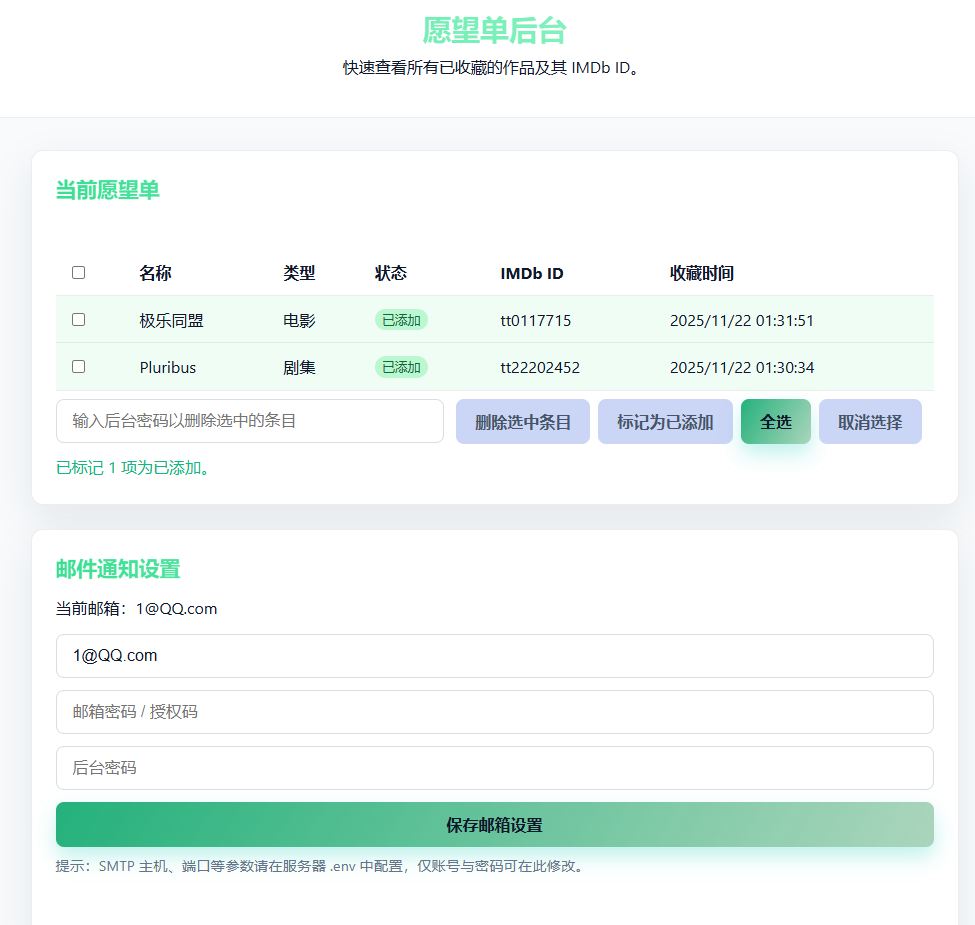
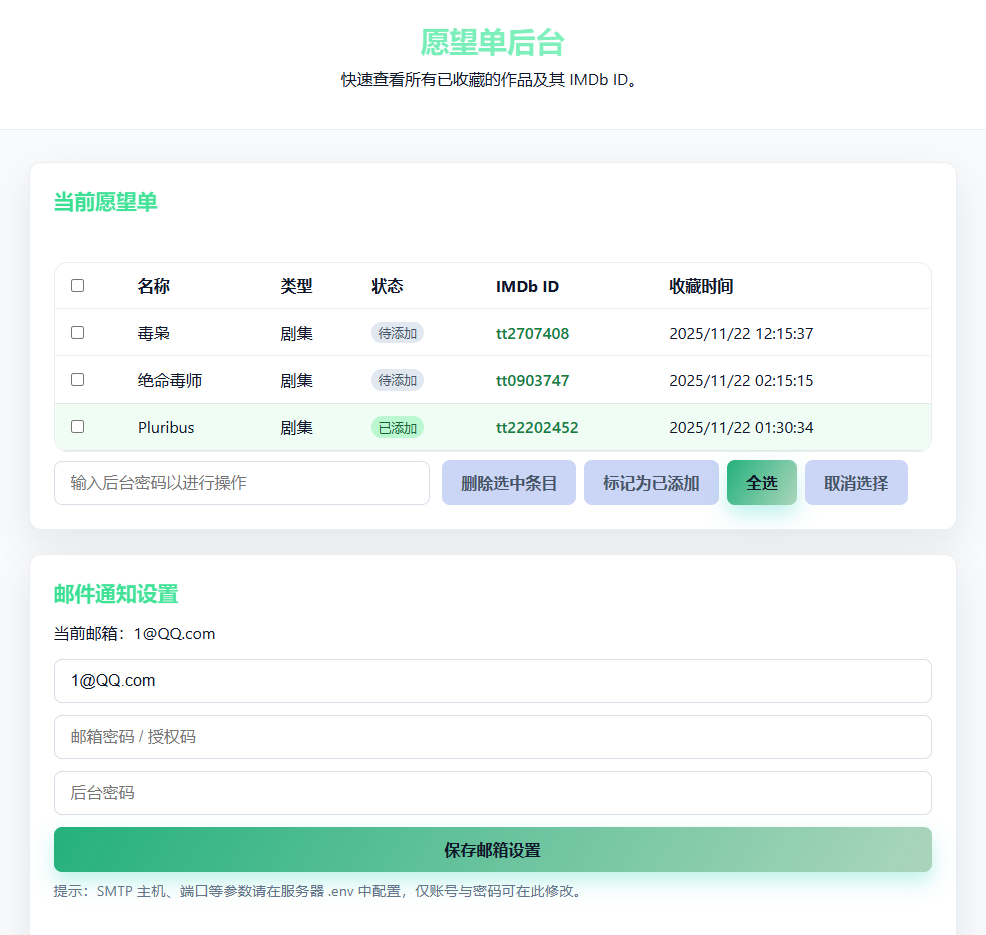
修复了手机端后台表格会超出区域的问题，修改了一部分的颜色

diff --git a/public/admin.html b/public/admin.html
@@ -17,8 +17,8 @@
     .imdb-id-label { font-weight:600; color:#15803d; cursor:pointer; }
     .imdb-actions {
       position:absolute; top:100%; left:0; display:flex; gap:0.35rem; padding:0.35rem 0.5rem;
-      background:linear-gradient(135deg,#ecfccb,#39d670);
-      border:1px solid rgba(22,101,52,0.25); border-radius:0.6rem;
+      background:linear-gradient(135deg,rgb(248 , 250, 252),rgb(248 , 250, 252));
+      border:1px solid rgba(58, 156, 96, 0.25); border-radius:0.6rem;
       box-shadow:0 10px 30px rgba(15,23,42,0.18);
       opacity:0; pointer-events:none; transform:translateY(0.35rem);
       transition:opacity 0.18s ease, transform 0.18s ease; z-index:10;
@@ -26,10 +26,26 @@
     .imdb-wrapper:hover .imdb-actions, .imdb-wrapper:focus-within .imdb-actions { opacity:1; pointer-events:auto; transform:translateY(0); }
     .imdb-action-link {
       font-size:0.85rem; color:#064e3b; text-decoration:none; padding:0.2rem 0.75rem;
-      border-radius:999px; background:linear-gradient(135deg,#4ade80,#22c55e);
-      border:1px solid rgba(59, 199, 154, 0.452); white-space:nowrap; font-weight:600;
+      border-radius:999px; background:linear-gradient(135deg,#50eb96,#3ccf7e);
+      border:1px solid rgba(75, 197, 150, 0.616); white-space:nowrap; font-weight:600;
     }
-    .imdb-action-link:hover { background:linear-gradient(135deg,#86efac,#4ade80); color:#022c22; }
+    .imdb-action-link:hover { background:linear-gradient(135deg,#9edab4,#7dd69e); color:#022c22; }
+    #adminWishlist { display:block; width:100%; }
+    #adminWishlist .wishlist-table-wrapper {
+      width:100%;
+      overflow-x:auto;
+      overflow-y:hidden;
+      -webkit-overflow-scrolling:touch;
+      border-radius:0.85rem;
+      border:1px solid rgba(15,23,42,0.08);
+      background:#fff;
+      box-shadow:inset 0 1px 0 rgba(255,255,255,0.4);
+    }
+    #adminWishlist .wishlist-table-wrapper table { min-width:720px; }
+    @media (max-width:640px) {
+      th, td { padding:0.6rem; font-size:0.95rem; white-space:nowrap; }
+      #adminWishlist .wishlist-table-wrapper table { min-width:560px; }
+    }
   </style>
 </head>
 <body>

diff --git a/public/admin.js b/public/admin.js
@@ -166,8 +166,12 @@ function renderWishlistTable() {
 
   table.appendChild(tbody);
 
+  const scrollWrapper = document.createElement('div');
+  scrollWrapper.className = 'wishlist-table-wrapper';
+  scrollWrapper.appendChild(table);
+
   adminContainer.innerHTML = '';
-  adminContainer.appendChild(table);
+  adminContainer.appendChild(scrollWrapper);
   syncMasterCheckbox(visibleItems.length);
 }
 
